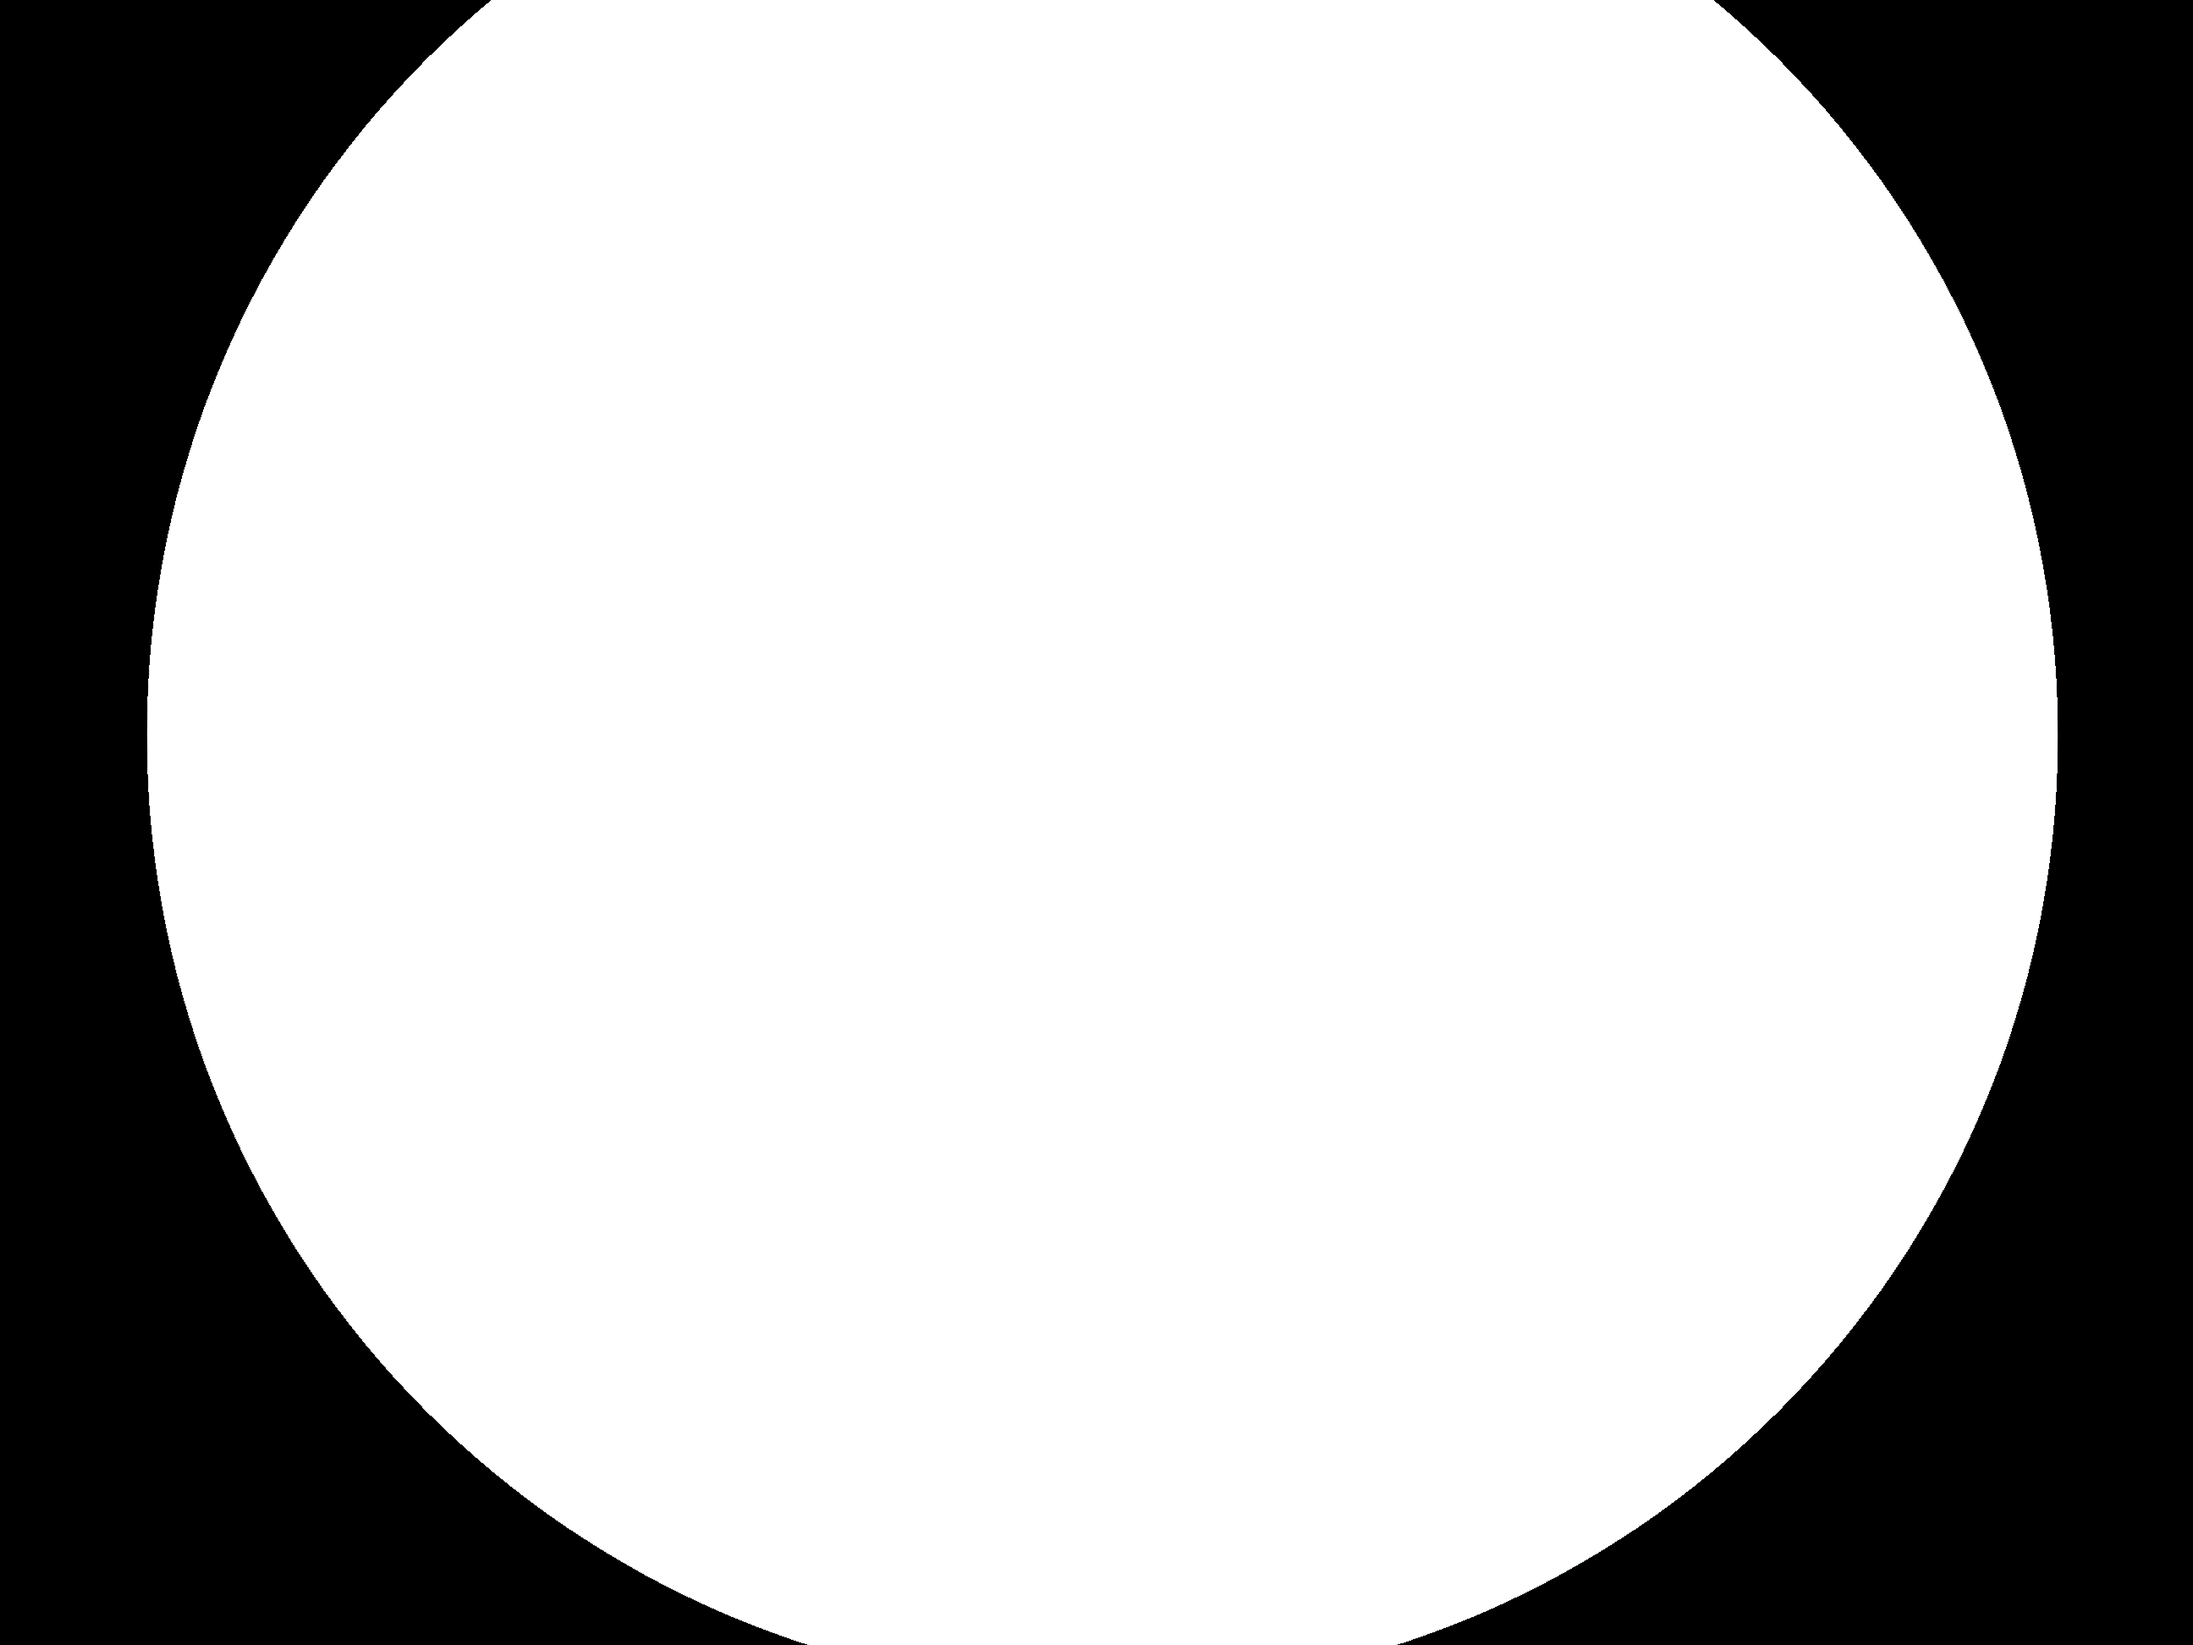
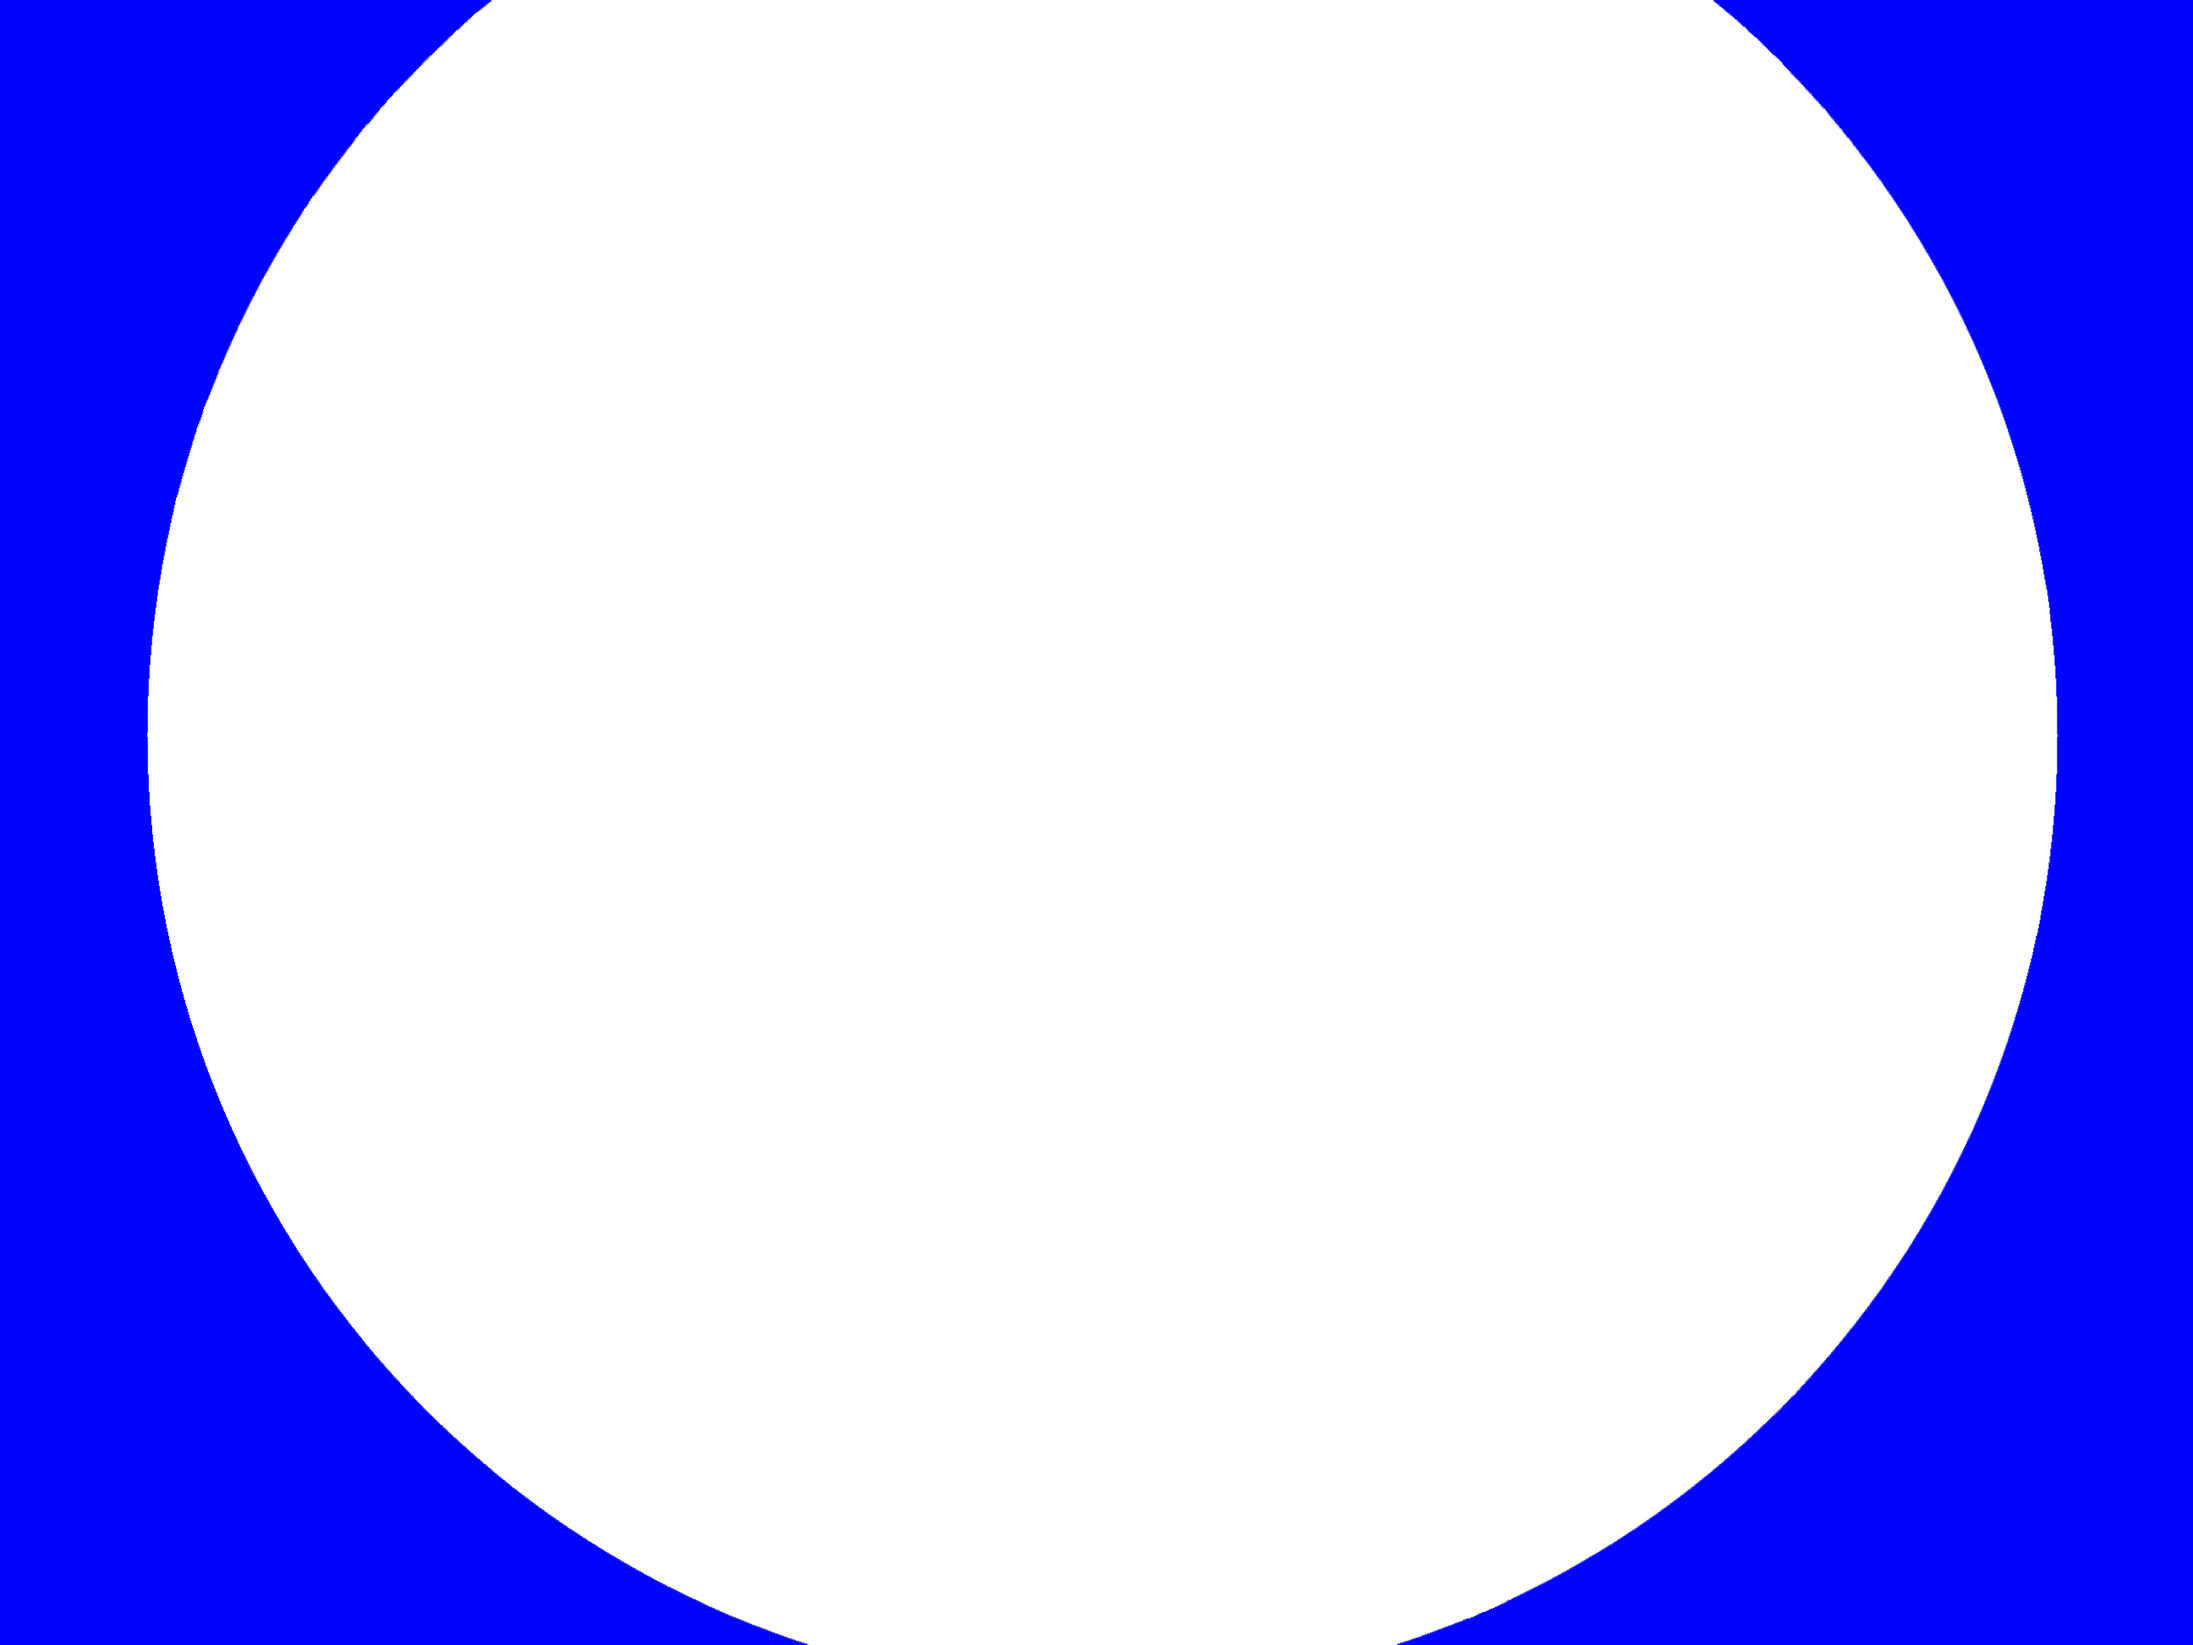
transparent mask is now panorama mask + improved pxcount

Changed region(s): [[0.0, 0.0, 0.375, 1.0], [0.625, 0.0, 1.0, 1.0]]

diff --git a/2-mask/mask.py b/2-mask/mask.py
@@ -1,0 +1,24 @@
+import os
+from PIL import Image
+from pathlib import Path
+
+base_folder = Path(__file__).parents[1]
+print("Working in: " + str(base_folder))
+img_folder = f'{base_folder}/images_ndvi'
+
+mask = Image.open("test_mask.png")
+
+for dir in os.listdir(img_folder):
+    #check if the file is a folder
+    if "." not in str(dir):
+        print("Processing: " + str(dir))
+        #create folder for masked images, first check if it already exists
+        if not os.path.exists(f"{base_folder}/images_masked/" + dir):
+            os.makedirs(f"{base_folder}/images_masked/" + dir)
+        #iterate through all images in the folder
+        print(f"{base_folder}/images_ndvi/" + dir)
+        for image_file in os.listdir(f"{base_folder}/images_ndvi/" + dir):
+            print("AAAA" + image_file)
+            image = Image.open(f"{base_folder}/images_ndvi/" + dir + "/" + image_file)
+            image.paste(mask, (0, 0), mask)
+            image.save(f"{base_folder}/images_masked/" + dir + "/" + image_file) 

diff --git a/3-pixelcount/pixelcount.py b/3-pixelcount/pixelcount.py
@@ -35,7 +35,7 @@ def pixelcount(img):
     #cv2.imwrite('ndvi.png', img)
     img = Image.open(img)
     #borrow a list of named colors from matplotlib
-    use_colors = {k: colors.cnames[k] for k in ['red', 'green', 'yellow', 'purple']}
+    use_colors = {k: colors.cnames[k] for k in ['red', 'green', 'yellow', 'purple', 'gray', 'black']}
 
     #translate hexstring to RGB tuple
     named_colors = {k: tuple(map(int, (v[1:3], v[3:5], v[5:7]), 3*(16,)))
@@ -65,6 +65,12 @@ def pixelcount(img):
     counts = dict(zip(color_names, np.bincount(idx.ravel(), None, ncol+1)))
 
     print(counts)
+
+    import pylab
+
+    pylab.clf()
+    pylab.imshow(color_tuples[idx])
+    pylab.savefig(f'{base_folder}/testtt.png')
     
 
     return counts

diff --git a/README.md b/README.md
@@ -22,9 +22,11 @@ Needs python <3.10 as 3.11 does not support cv2
     cd ..
     ```
 
-3. Add image mask
+3. Add image mask (transparent should be used for panoramas, BLUE for pixelcount. TODO)
     ```
     cd 2-mask
     python3 add_mask.py
     cd ..
     ```
+
+3. Pixel count(must be run on Flight OS)
